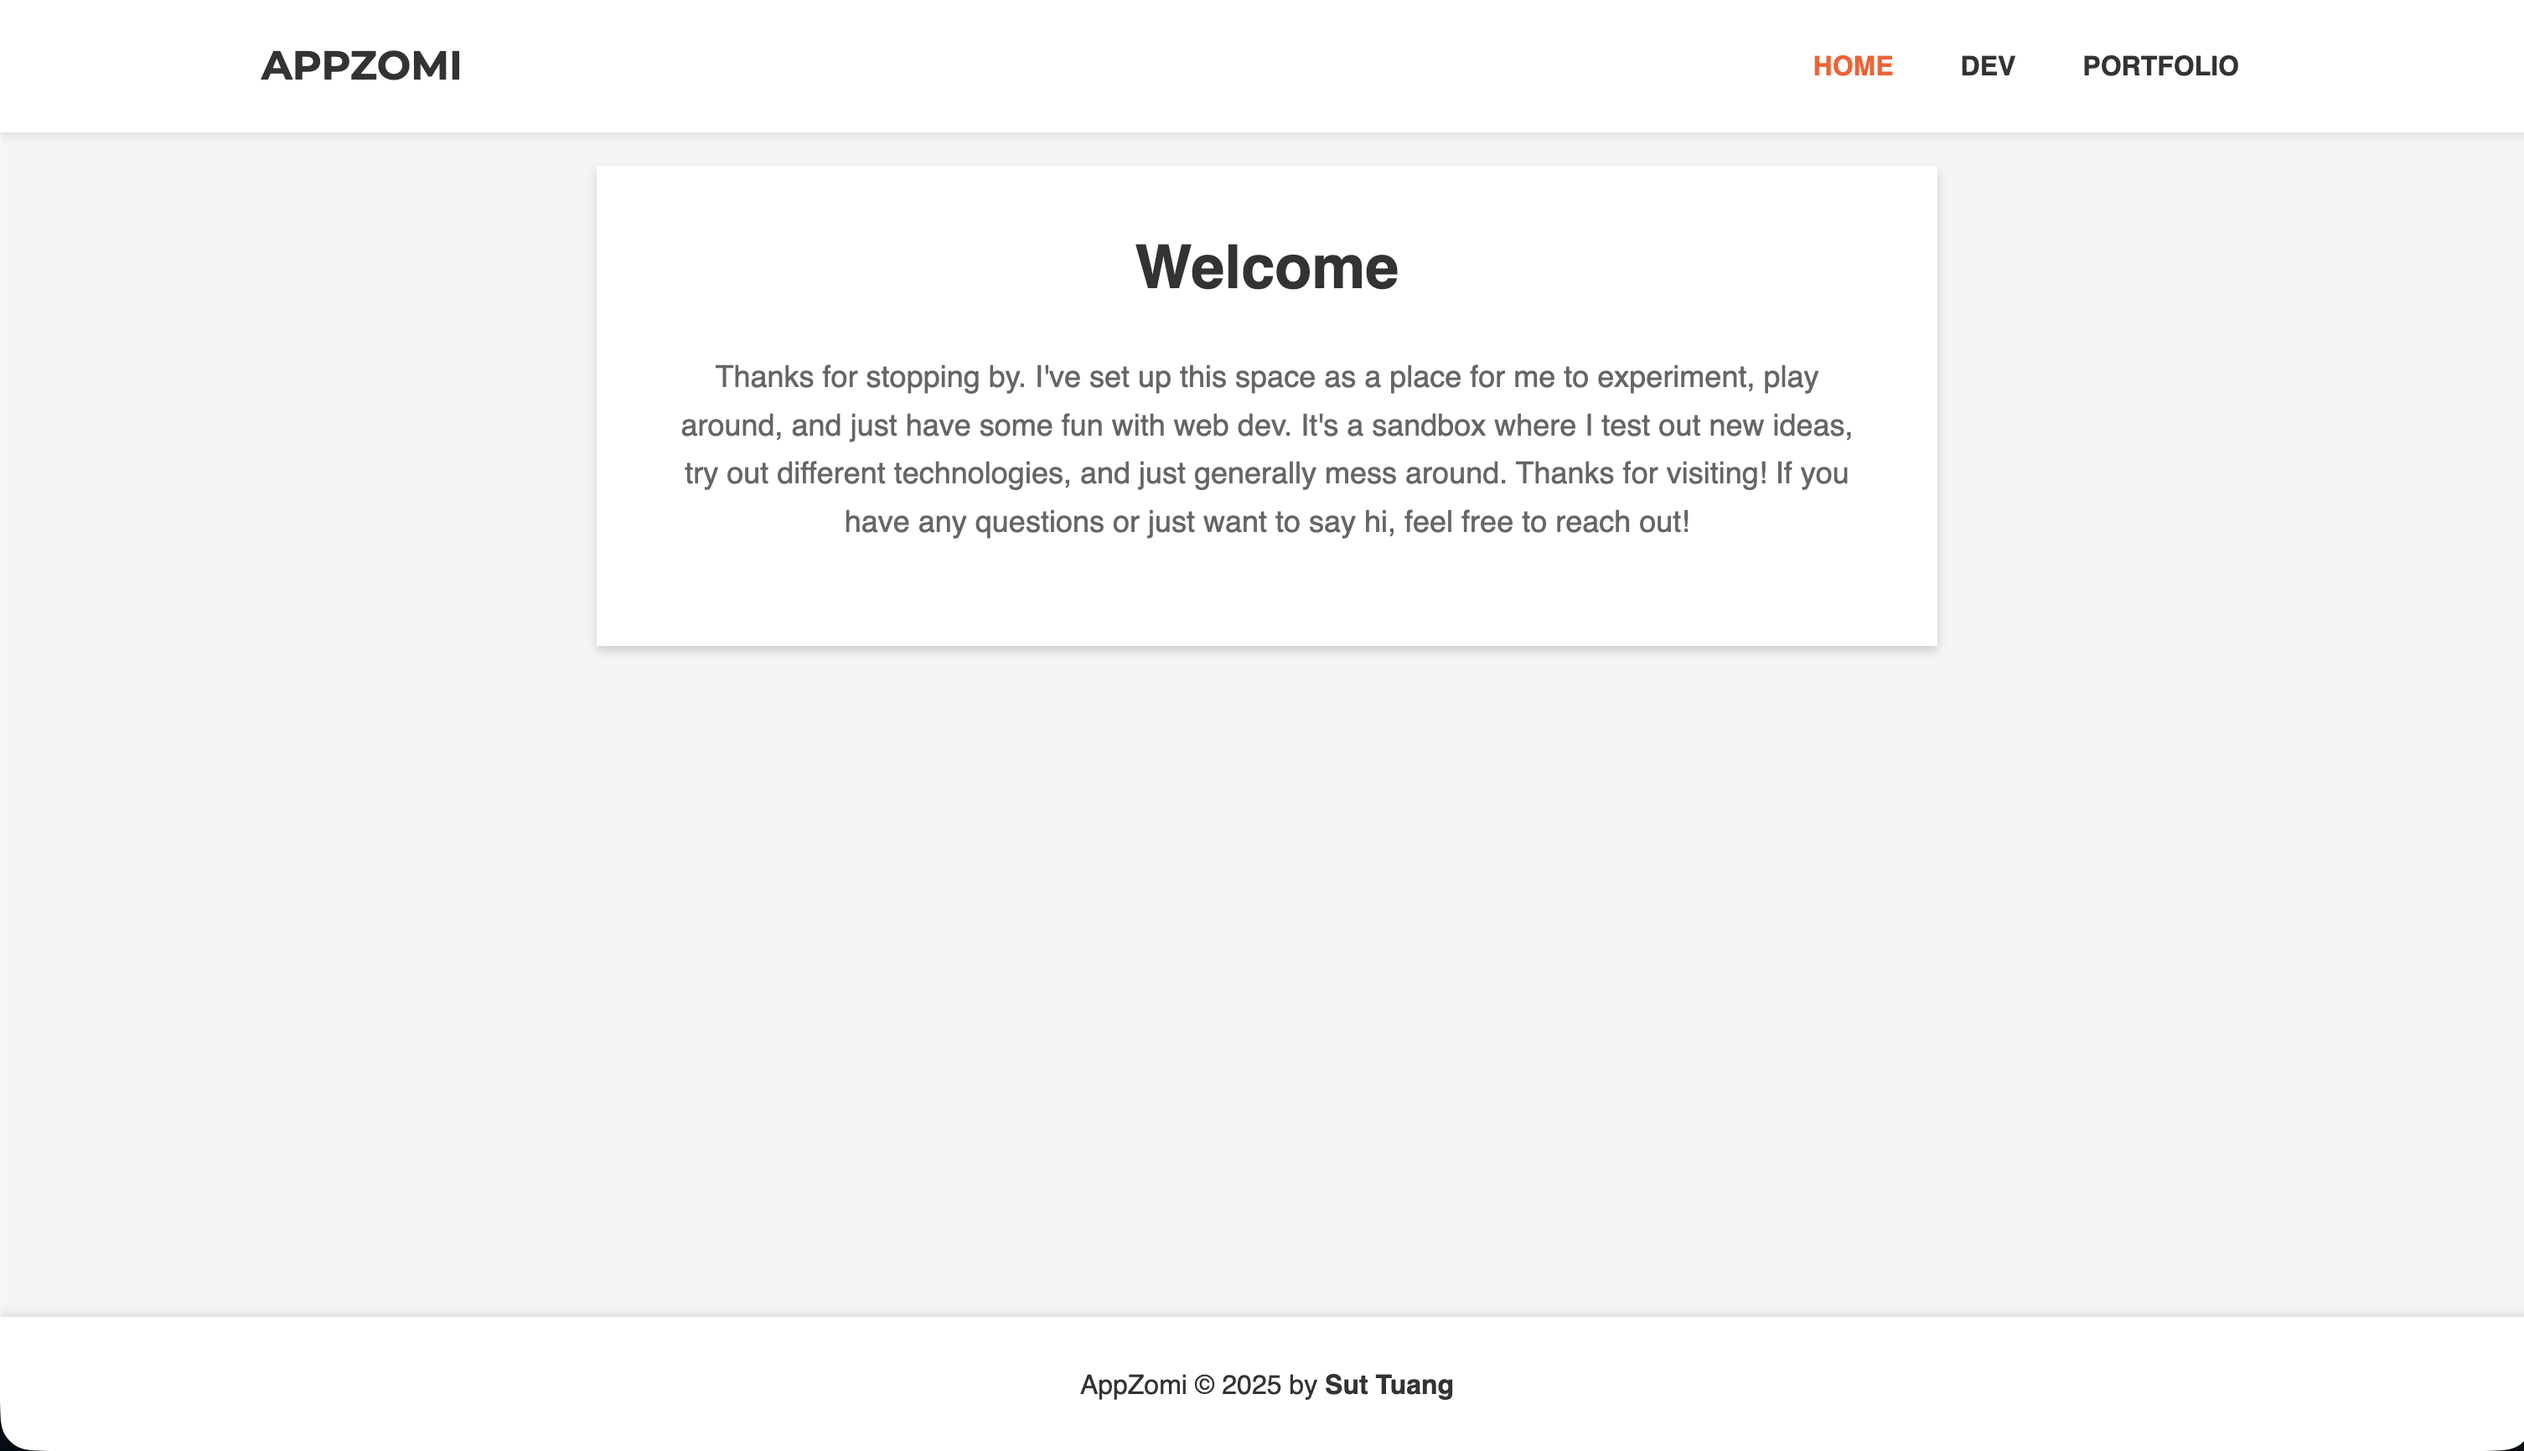
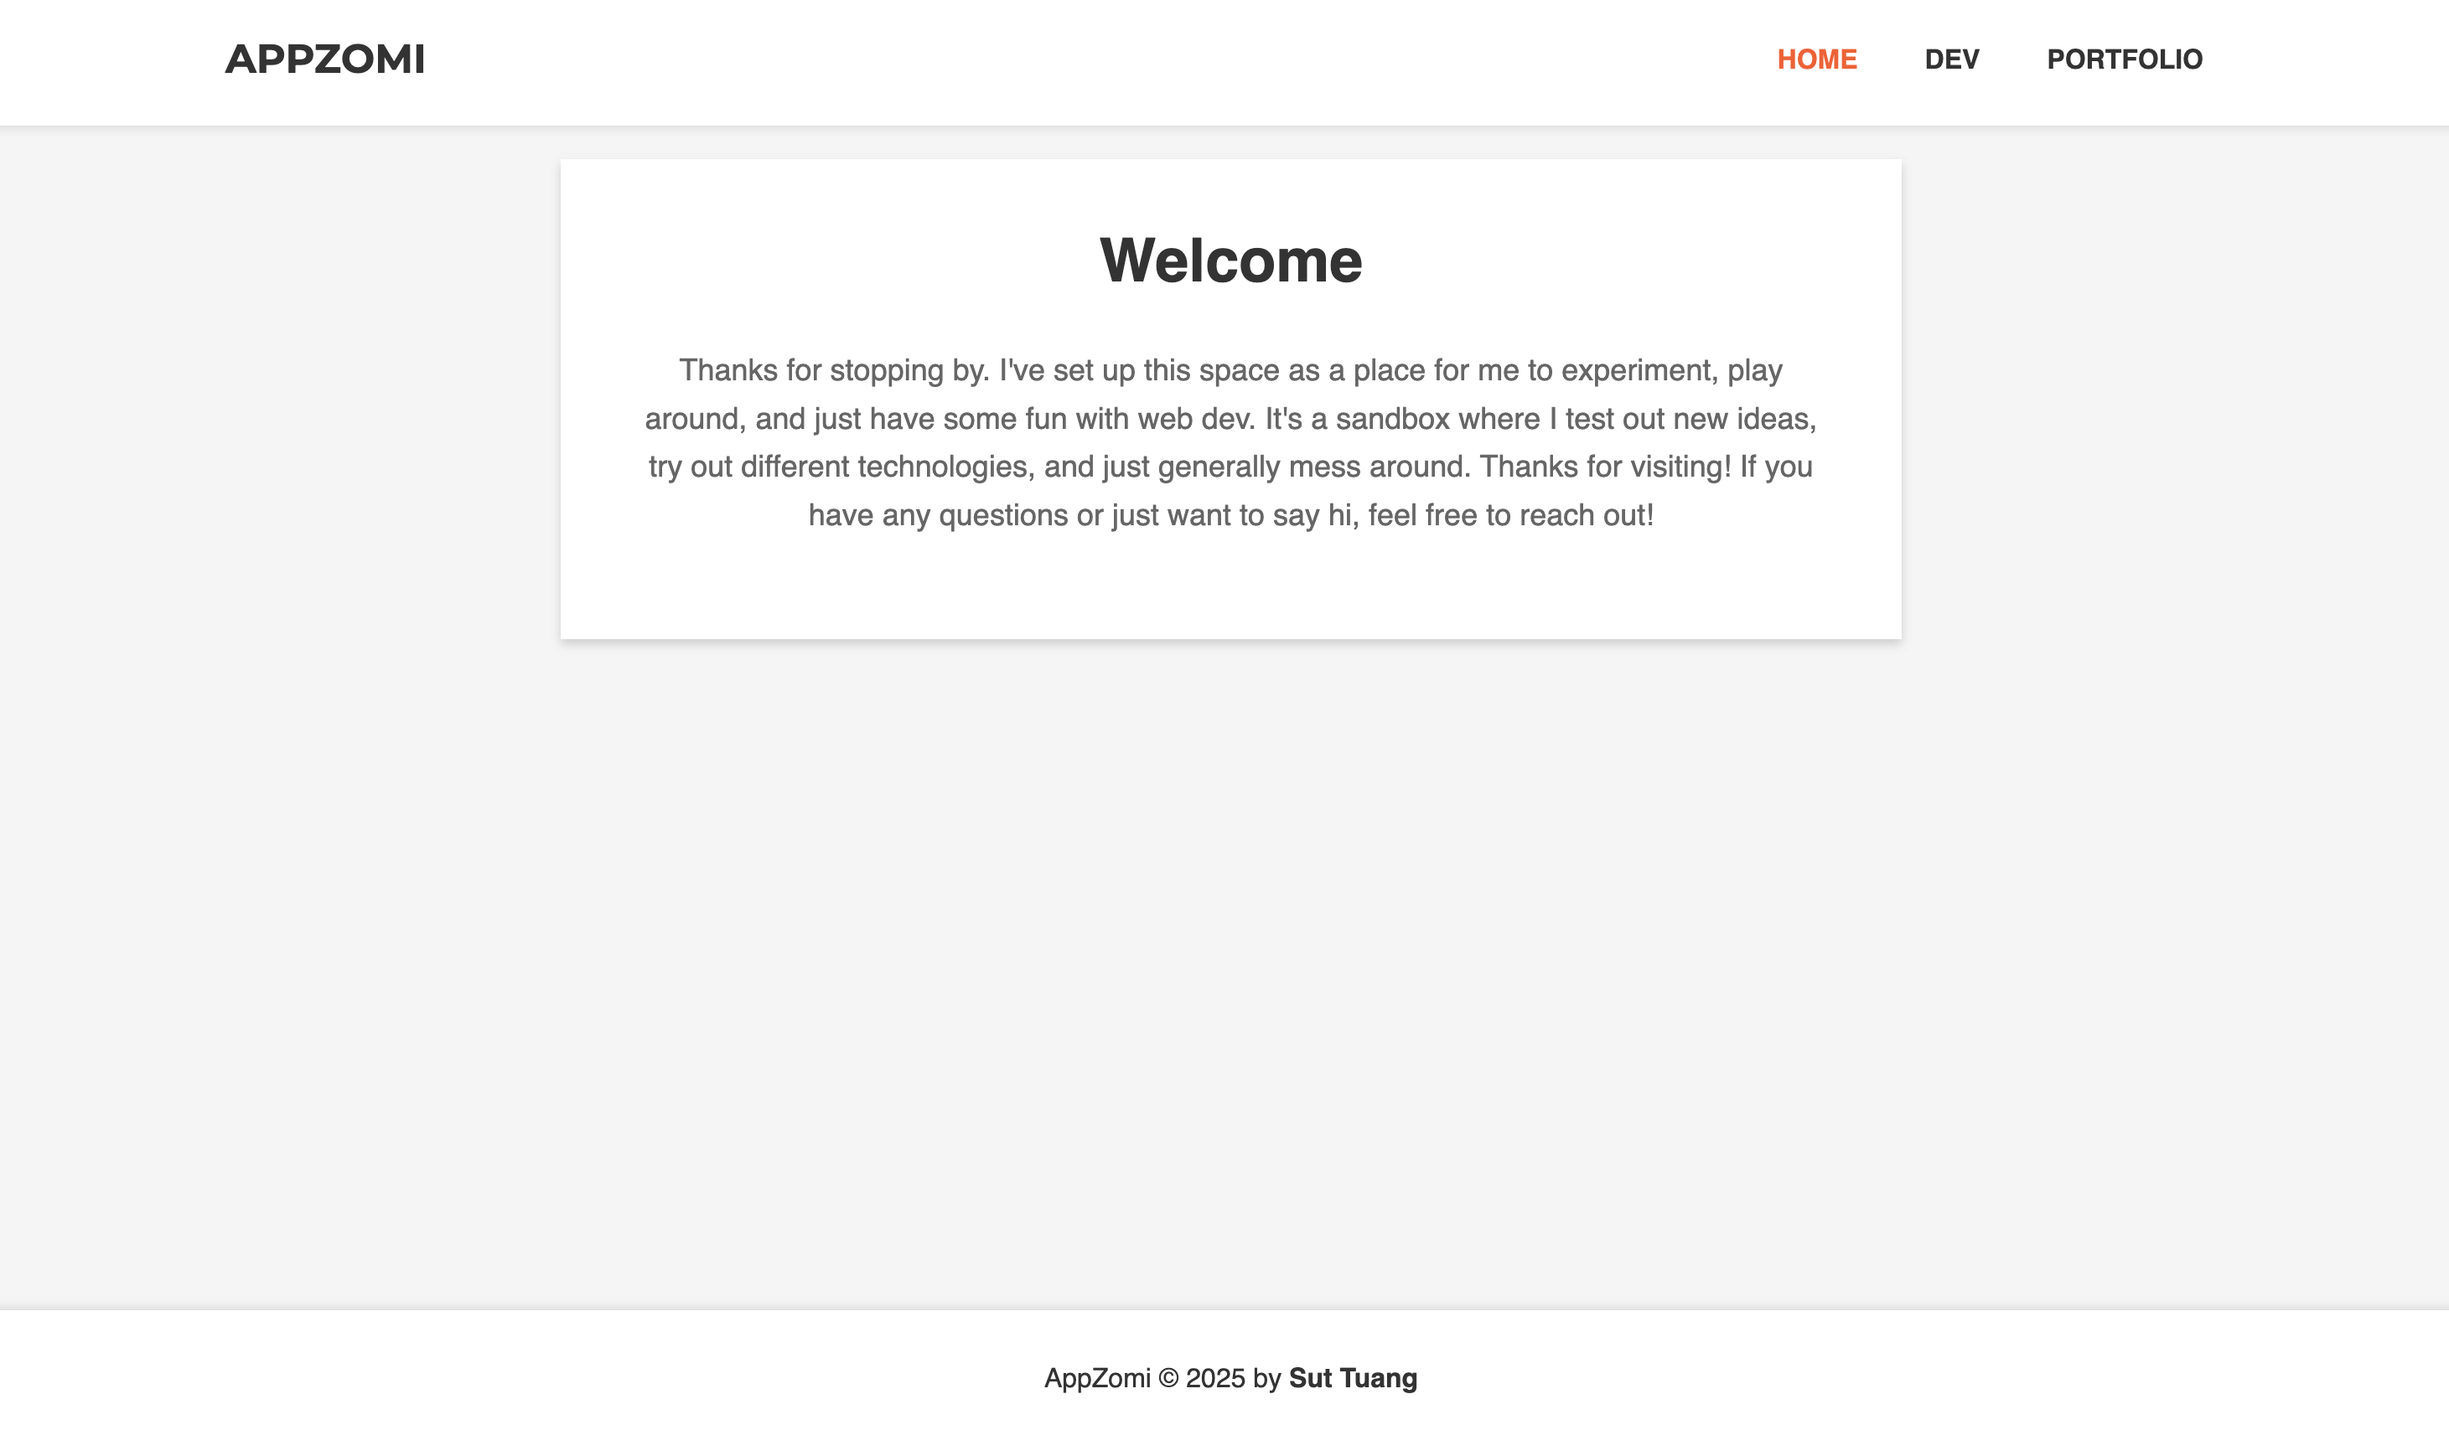
fix: crop images

diff --git a/showcase.html b/showcase.html
@@ -62,7 +62,7 @@
     <main>
         <section class="content">
             <header class="project-title">
-                <h1>Personal projects</h1>
+                <h1>Personal Projects</h1>
             </header>
             <section id="project-container" class="project-container">
                 <!-- 
